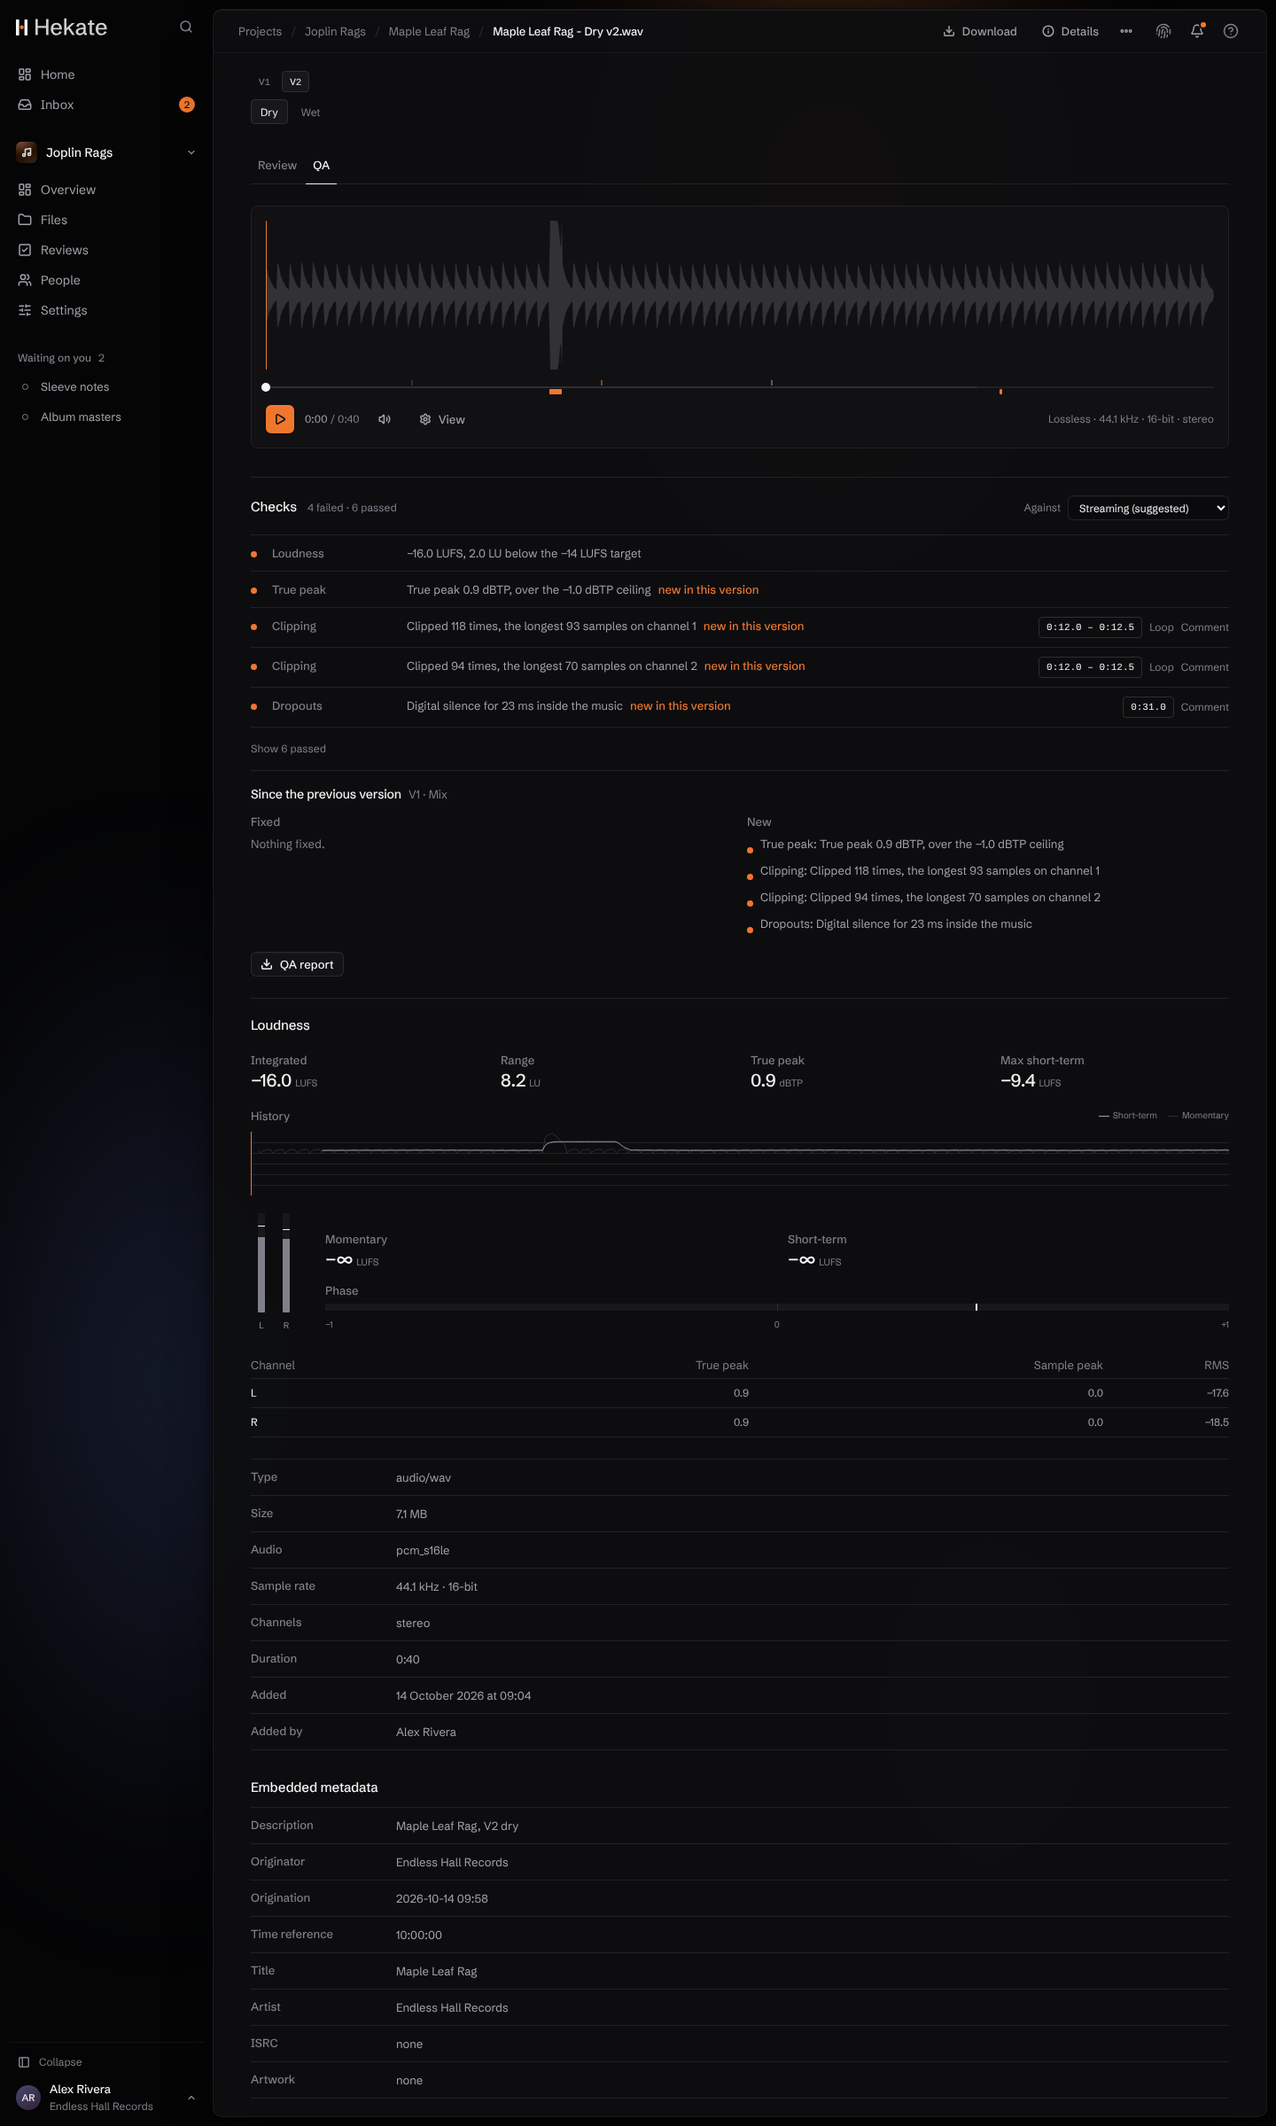
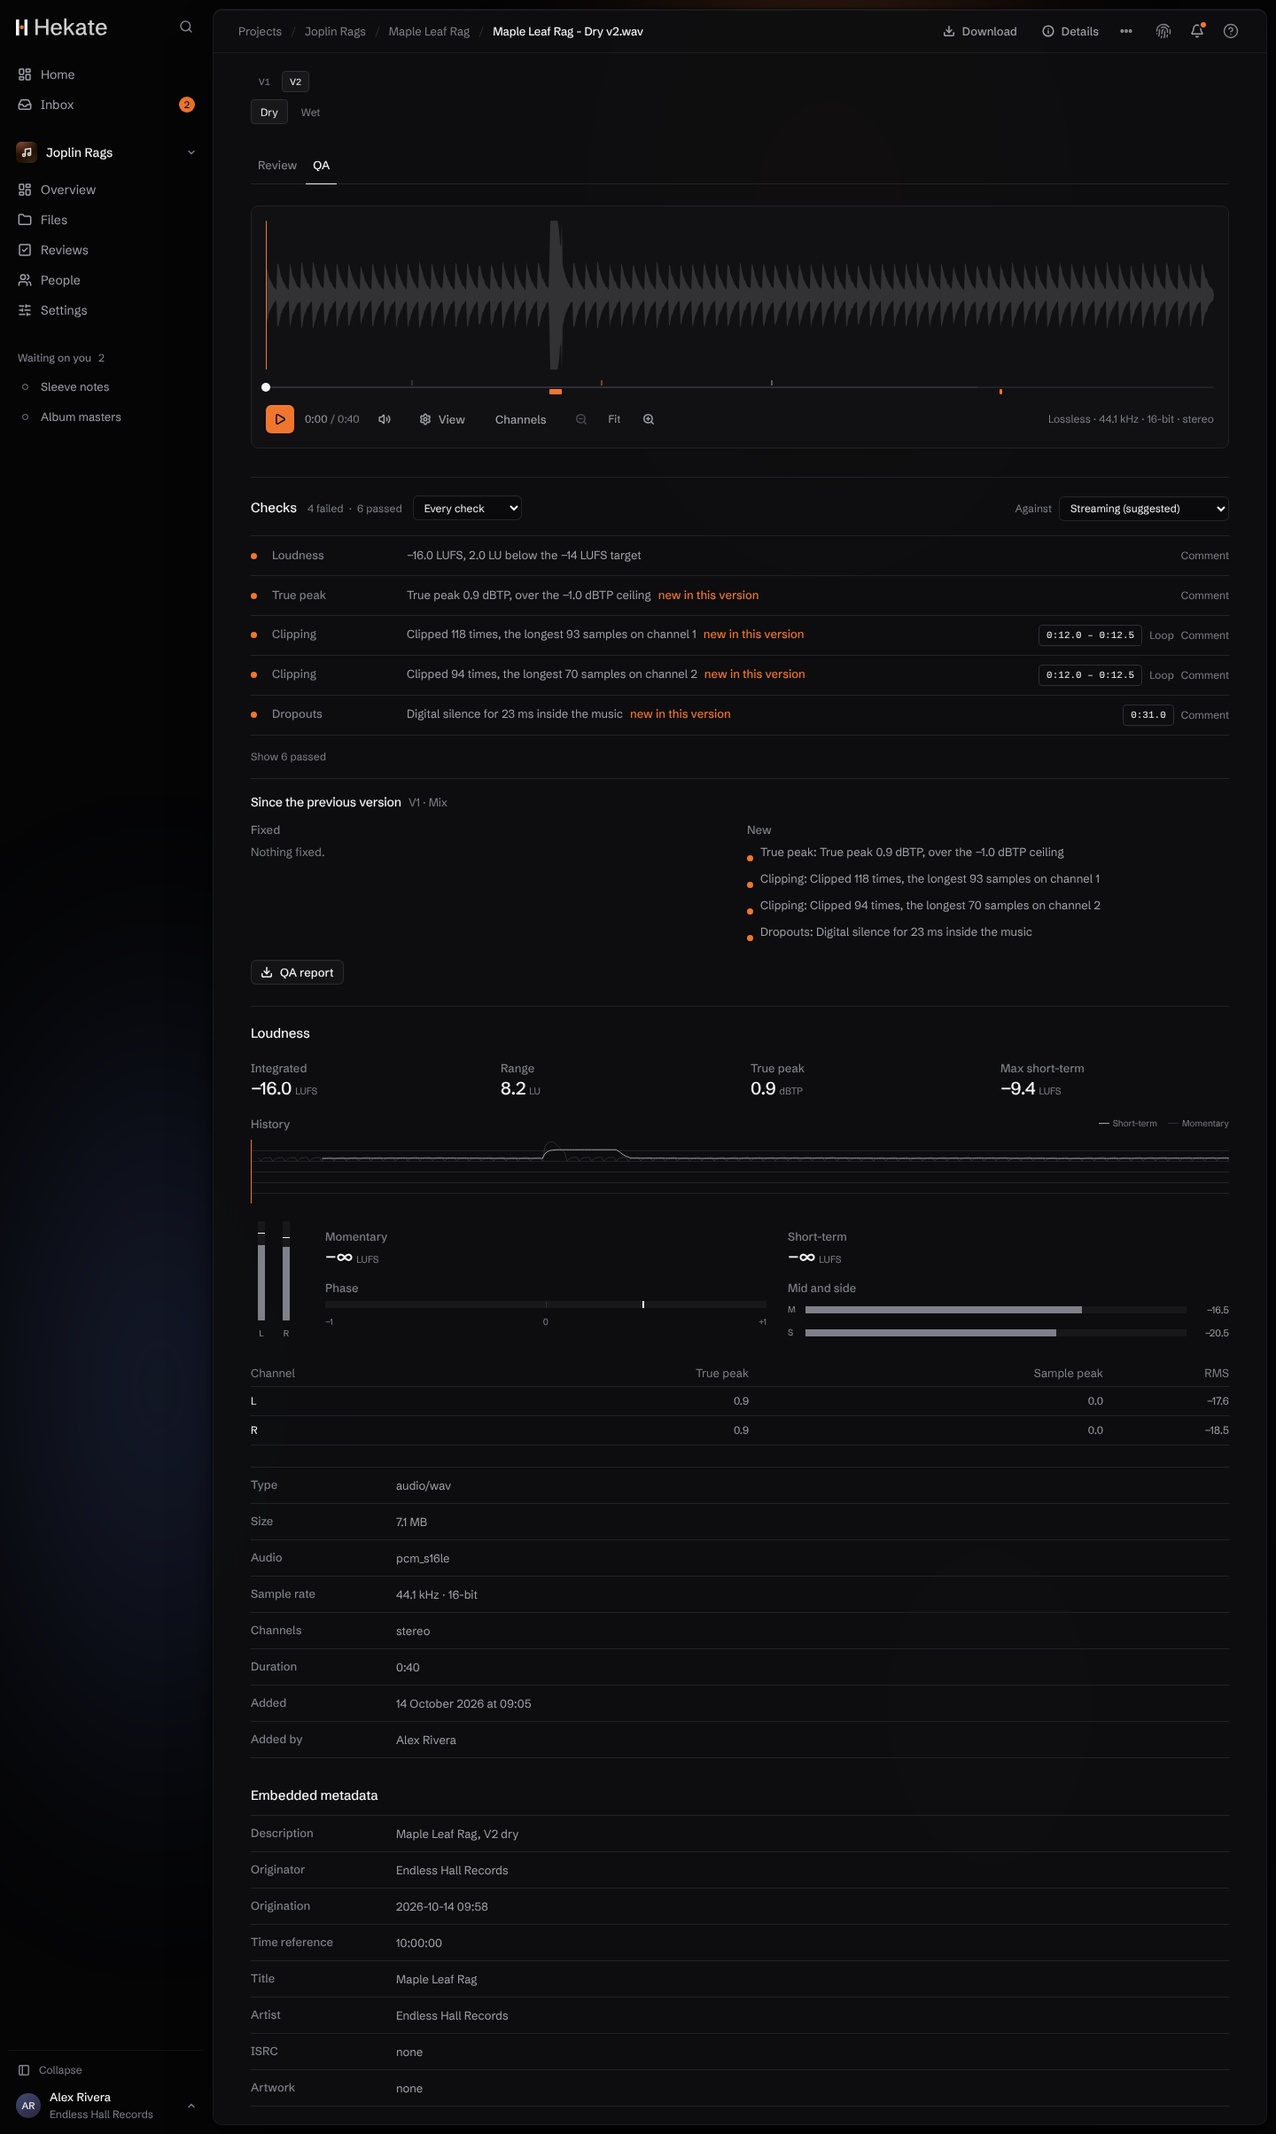
feat: meter the front pair's mid and side as it plays (#302)
Refs #34

Claude-Session: https://claude.ai/code/session_015TRj2XJrf2hGBbTKBkRfmp

diff --git a/packages/shared/src/loudness.ts b/packages/shared/src/loudness.ts
@@ -6,12 +6,14 @@ import { z } from "zod";
  * peaks, these are numbers about the audio from which no audio can be rebuilt.
  *
  * The series holds one frame every `samplesPerFrame` samples (100 ms): momentary and
- * short-term loudness, each channel's sample peak and RMS, and the phase correlation of the
- * front pair. Binary layout, little-endian: the magic `HKLD`, version (u8), channels (u8),
- * flags (u8, bit 0: phase present), a reserved byte, sample rate (u32), samples per frame
- * (u32), frame count (u32), then for every frame signed 16-bit values: momentary and
- * short-term in hundredths of a LUFS, each channel's peak and RMS in hundredths of a dBFS,
- * and the phase correlation in ten-thousandths, if present.
+ * short-term loudness, each channel's sample peak and RMS, and the phase correlation and the
+ * mid and side levels of the front pair. Binary layout, little-endian: the magic `HKLD`,
+ * version (u8), channels (u8), flags (u8, bit 0: phase present, bit 1: mid and side
+ * present), a reserved byte, sample rate (u32), samples per frame (u32), frame count (u32),
+ * then for every frame signed 16-bit values: momentary and short-term in hundredths of a
+ * LUFS, each channel's peak and RMS in hundredths of a dBFS, the phase correlation in
+ * ten-thousandths, if present, and the mid and side RMS in hundredths of a dBFS, if present.
+ * Files measured before mid and side were added have only the phase.
  */
 
 export interface LoudnessSeries {
@@ -28,6 +30,10 @@ export interface LoudnessSeries {
   rms: Float32Array;
   /** Per frame, -1 (out of phase) to 1 (mono); empty without a pair of channels. */
   phase: Float32Array;
+  hasMidSide: boolean;
+  /** Per frame, the RMS of the front pair's sum and difference, (L+R)/2 and (L−R)/2, in dBFS. */
+  mid: Float32Array;
+  side: Float32Array;
 }
 
 /** Anything at or below this is shown as silence. */
@@ -41,22 +47,22 @@ const MAGIC = [0x48, 0x4b, 0x4c, 0x44];
 const VERSION = 1;
 const HEADER = 20;
 
-const valuesPerFrame = (channels: number, hasPhase: boolean) =>
-  2 + channels * 2 + (hasPhase ? 1 : 0);
+const valuesPerFrame = (channels: number, hasPhase: boolean, hasMidSide: boolean) =>
+  2 + channels * 2 + (hasPhase ? 1 : 0) + (hasMidSide ? 2 : 0);
 
 /** A level in dB to hundredths, clamped to the range a 16-bit value holds. */
 const centi = (db: number) =>
   Number.isFinite(db) ? Math.round(Math.max(SILENCE, Math.min(300, db)) * 100) : SILENCE * 100;
 
 export function encodeLoudness(series: LoudnessSeries): Uint8Array {
-  const { channels, count, hasPhase } = series;
-  const stride = valuesPerFrame(channels, hasPhase);
+  const { channels, count, hasPhase, hasMidSide } = series;
+  const stride = valuesPerFrame(channels, hasPhase, hasMidSide);
   const out = new Uint8Array(HEADER + count * stride * 2);
   const view = new DataView(out.buffer);
   out.set(MAGIC, 0);
   view.setUint8(4, VERSION);
   view.setUint8(5, channels);
-  view.setUint8(6, hasPhase ? 1 : 0);
+  view.setUint8(6, (hasPhase ? 1 : 0) | (hasMidSide ? 2 : 0));
   view.setUint32(8, series.sampleRate, true);
   view.setUint32(12, series.samplesPerFrame, true);
   view.setUint32(16, count, true);
@@ -73,6 +79,10 @@ export function encodeLoudness(series: LoudnessSeries): Uint8Array {
       put(centi(series.rms[f * channels + c] as number));
     }
     if (hasPhase) put(Math.round(Math.max(-1, Math.min(1, series.phase[f] ?? 0)) * 10_000));
+    if (hasMidSide) {
+      put(centi(series.mid[f] ?? SILENCE));
+      put(centi(series.side[f] ?? SILENCE));
+    }
   }
   return out;
 }
@@ -84,9 +94,11 @@ export function decodeLoudness(bytes: Uint8Array): LoudnessSeries {
   const view = new DataView(bytes.buffer, bytes.byteOffset, bytes.byteLength);
   if (view.getUint8(4) !== VERSION) throw new Error("Unsupported loudness version");
   const channels = view.getUint8(5);
-  const hasPhase = (view.getUint8(6) & 1) === 1;
+  const flags = view.getUint8(6);
+  const hasPhase = (flags & 1) === 1;
+  const hasMidSide = (flags & 2) === 2;
   const count = view.getUint32(16, true);
-  const stride = valuesPerFrame(channels, hasPhase);
+  const stride = valuesPerFrame(channels, hasPhase, hasMidSide);
   if (channels === 0 || bytes.length !== HEADER + count * stride * 2) {
     throw new Error("Truncated loudness file");
   }
@@ -101,6 +113,9 @@ export function decodeLoudness(bytes: Uint8Array): LoudnessSeries {
     peak: new Float32Array(count * channels),
     rms: new Float32Array(count * channels),
     phase: new Float32Array(hasPhase ? count : 0),
+    hasMidSide,
+    mid: new Float32Array(hasMidSide ? count : 0),
+    side: new Float32Array(hasMidSide ? count : 0),
   };
   let at = HEADER;
   const take = () => {
@@ -116,6 +131,10 @@ export function decodeLoudness(bytes: Uint8Array): LoudnessSeries {
       series.rms[f * channels + c] = take() / 100;
     }
     if (hasPhase) series.phase[f] = take() / 10_000;
+    if (hasMidSide) {
+      series.mid[f] = take() / 100;
+      series.side[f] = take() / 100;
+    }
   }
   return series;
 }

diff --git a/apps/server/src/media/loudness.ts b/apps/server/src/media/loudness.ts
@@ -27,6 +27,10 @@ class Column {
   }
 }
 
+/** A mean square as dBFS; nothing, or rounding below zero, is silence. */
+const powerToDb = (power: number) =>
+  power > 0 ? Math.max(SILENCE, 10 * Math.log10(power)) : SILENCE;
+
 /** ffmpeg prints silence as `-inf`, or as its own floor of about -120.7 LUFS. */
 const level = (text: string) => {
   const value = Number.parseFloat(text);
@@ -110,6 +114,7 @@ export class LoudnessParser {
  * Phase correlation of the first two channels (left and right, or front left and right
  * of a surround layout) over each frame, from interleaved 32-bit float PCM in chunks of
  * any size: +1 is mono, 0 unrelated, -1 out of phase. Silence on either side reads as 0.
+ * The same sums give the RMS of the pair's mid, (L+R)/2, and side, (L−R)/2, in dBFS.
  */
 export class PhaseMeter {
   private carry = Buffer.alloc(0);
@@ -120,6 +125,8 @@ export class PhaseMeter {
   private rr = 0;
   private left = 0;
   private readonly values = new Column();
+  private readonly mid = new Column();
+  private readonly side = new Column();
   /** Sample frames (one sample per channel) seen. */
   total = 0;
   readonly channels: number;
@@ -157,16 +164,23 @@ export class PhaseMeter {
 
   private emit(): void {
     const energy = Math.sqrt(this.ll * this.rr);
-    this.values.set(this.values.length, energy > 0 ? this.lr / energy : 0);
+    const at = this.values.length;
+    this.values.set(at, energy > 0 ? this.lr / energy : 0);
+    // Mean of ((L ± R) / 2)², from the sums already kept.
+    const n = Math.max(1, this.frames);
+    this.mid.set(at, powerToDb((this.ll + 2 * this.lr + this.rr) / 4 / n));
+    this.side.set(at, powerToDb((this.ll - 2 * this.lr + this.rr) / 4 / n));
     this.frames = 0;
     this.lr = 0;
     this.ll = 0;
     this.rr = 0;
   }
 
-  finish(count: number): Float32Array {
+  finish(count: number): { phase: Float32Array; mid: Float32Array; side: Float32Array } {
     if (this.frames > 0) this.emit();
-    return this.channels >= 2 ? this.values.toArray(count) : new Float32Array(0);
+    const pair = this.channels >= 2;
+    const column = (c: Column) => (pair ? c.toArray(count) : new Float32Array(0));
+    return { phase: column(this.values), mid: column(this.mid), side: column(this.side) };
   }
 }
 
@@ -202,8 +216,9 @@ export function finishLoudness(
     samplesPerFrame: phase.samplesPerFrame,
     count,
     hasPhase: parsed.channels >= 2,
+    hasMidSide: parsed.channels >= 2,
     ...columns,
-    phase: phase.finish(count),
+    ...phase.finish(count),
   };
   const levels = channelLevels(series, phase.total);
   const truePeaks = parsed.truePeaks.map(linearToDb);

diff --git a/apps/web/src/components/loudness.tsx b/apps/web/src/components/loudness.tsx
@@ -247,6 +247,48 @@ function PhaseMeter({ value }: { value: number }) {
   );
 }
 
+/**
+ * The front pair's mid (what the two sides share) and side (where they differ), as RMS: a
+ * side close to the mid is wide or out of phase, a side far below it narrow.
+ */
+function MidSideMeter({ mid, side }: { mid: number; side: number }) {
+  return (
+    <div className="flex flex-col gap-1.5">
+      <span className="label">Mid and side</span>
+      <ul className="m-0 flex list-none flex-col gap-1.5 p-0">
+        {(
+          [
+            ["M", "Mid", mid],
+            ["S", "Side", side],
+          ] as const
+        ).map(([short, name, level]) => (
+          <li key={short} className="flex items-center gap-2">
+            <meter
+              className="sr-only"
+              min={METER_FLOOR}
+              max={0}
+              value={Math.max(METER_FLOOR, level)}
+              aria-label={`${name}: RMS ${formatLevel(level)} dBFS`}
+            />
+            <span className="label w-3 text-[10px]" aria-hidden="true">
+              {short}
+            </span>
+            <span className="relative h-2 flex-1 rounded-[1px] bg-raised" aria-hidden="true">
+              <span
+                className="absolute inset-y-0 left-0 bg-ink-3"
+                style={{ width: `${meterFraction(level) * 100}%` }}
+              />
+            </span>
+            <span className="tabular w-10 text-right text-[11px] text-ink-2" aria-hidden="true">
+              {formatLevel(level)}
+            </span>
+          </li>
+        ))}
+      </ul>
+    </div>
+  );
+}
+
 /** The whole file in four numbers. */
 function Readings({ summary }: { summary: LoudnessSummary }) {
   return (
@@ -350,7 +392,14 @@ export function Loudness({
               <Reading label="Momentary" value={formatLevel(live(series.momentary))} unit="LUFS" />
               <Reading label="Short-term" value={formatLevel(live(series.shortTerm))} unit="LUFS" />
             </div>
-            {series.hasPhase && <PhaseMeter value={frame === null ? 0 : live(series.phase)} />}
+            {series.hasPhase && (
+              <div className="grid gap-x-6 gap-y-4 sm:grid-cols-2">
+                <PhaseMeter value={frame === null ? 0 : live(series.phase)} />
+                {series.hasMidSide && (
+                  <MidSideMeter mid={live(series.mid)} side={live(series.side)} />
+                )}
+              </div>
+            )}
           </div>
         </div>
       )}

diff --git a/packages/shared/src/loudness.test.ts b/packages/shared/src/loudness.test.ts
@@ -10,7 +10,7 @@ import {
   SILENCE,
 } from "./loudness.ts";
 
-const series = (hasPhase: boolean): LoudnessSeries => ({
+const series = (hasPhase: boolean, hasMidSide = hasPhase): LoudnessSeries => ({
   channels: 2,
   sampleRate: 48_000,
   samplesPerFrame: 4_800,
@@ -21,6 +21,9 @@ const series = (hasPhase: boolean): LoudnessSeries => ({
   peak: Float32Array.from([-60, -61, -6.02, -12, -0.5, Number.NEGATIVE_INFINITY]),
   rms: Float32Array.from([-70, -71, -20, -26, -9, -500]),
   phase: hasPhase ? Float32Array.from([1, 0.5, -0.25]) : new Float32Array(0),
+  hasMidSide,
+  mid: hasMidSide ? Float32Array.from([SILENCE, -26.5, -12.25]) : new Float32Array(0),
+  side: hasMidSide ? Float32Array.from([SILENCE, -40, -500]) : new Float32Array(0),
 });
 
 describe("loudness series", () => {
@@ -35,7 +38,20 @@ describe("loudness series", () => {
       );
       expect(decoded.rms[5]).toBe(SILENCE);
       expect(Array.from(decoded.phase)).toEqual(hasPhase ? [1, 0.5, -0.25] : []);
+      expect(decoded.hasMidSide).toBe(hasPhase);
+      expect(Array.from(decoded.mid)).toEqual(
+        hasPhase ? [SILENCE, -26.5, -12.25].map(Math.fround) : [],
+      );
+      expect(Array.from(decoded.side)).toEqual(hasPhase ? [SILENCE, -40, SILENCE] : []);
     }
+  });
+
+  it("reads a file measured before mid and side were kept", () => {
+    const decoded = decodeLoudness(encodeLoudness(series(true, false)));
+    expect(decoded.hasPhase).toBe(true);
+    expect(decoded.hasMidSide).toBe(false);
+    expect(decoded.mid.length).toBe(0);
+    expect(Array.from(decoded.phase)).toEqual([1, 0.5, -0.25]);
   });
 
   it("rejects what is not a whole loudness file", () => {

diff --git a/apps/server/src/media/loudness.test.ts b/apps/server/src/media/loudness.test.ts
@@ -75,14 +75,22 @@ describe("phase meter", () => {
     ] as const) {
       meter.push(bytes.subarray(start, end));
     }
-    expect(Array.from(meter.finish(2))).toEqual([1, -1]);
+    const { phase, mid, side } = meter.finish(2);
+    expect(Array.from(phase)).toEqual([1, -1]);
     expect(meter.total).toBe(4);
+    // In phase, everything is mid and nothing side; out of phase, the reverse.
+    const level = 10 * Math.log10((0.5 ** 2 + 0.25 ** 2) / 2);
+    expect(mid[0]).toBeCloseTo(level, 4);
+    expect(side[0]).toBe(SILENCE);
+    expect(mid[1]).toBe(SILENCE);
+    expect(side[1]).toBeCloseTo(level, 4);
   });
 
   it("has nothing to say about mono", () => {
     const meter = new PhaseMeter(1, 2);
     meter.push(pcm([0.1, 0.2, 0.3]));
-    expect(meter.finish(2)).toHaveLength(0);
+    const { phase, mid, side } = meter.finish(2);
+    expect([phase.length, mid.length, side.length]).toEqual([0, 0, 0]);
   });
 });
 

diff --git a/docs/security.md b/docs/security.md
@@ -43,7 +43,7 @@ Members sign in with what their workspace already uses; guests never need an acc
 - The key endpoint returns the content key only on a valid token and session. Keys are never cached, are limited to 30 requests a minute per session, and every issue is logged (`stream.key`) before the key leaves. Starting playback (`stream.session`) and every segment served (`stream.segment`, with its rendition and index) are logged too, so the log shows which parts of a file reached whom. All playback responses are `no-store` and same-origin.
 - The player (hls.js under Hekate's own controls, for audio as well as video) decrypts through Media Source Extensions; Safari on iOS, which lacks them, plays the same encrypted stream natively. The network panel shows only encrypted fragments.
 - Waveforms are drawn from precomputed peaks, so the waveform never needs the audio itself. Peaks are each channel's lowest and highest sample over blocks of at least 256 samples, in 8 bits: enough to draw at any zoom, far too little to rebuild audio. They are stored encrypted like everything else and served to members of the file's workspace without a playback token or an access-log entry.
-- Loudness and levels are treated in the same way. They are momentary and short-term loudness, each channel's peak and RMS, and the phase correlation of the front pair, one set of numbers every 100 ms. They are measured from the same decode as the peaks, no audio can be rebuilt from them, and they are served like the peaks.
+- Loudness and levels are treated in the same way. They are momentary and short-term loudness, each channel's peak and RMS, and the phase correlation and mid and side levels of the front pair, one set of numbers every 100 ms. They are measured from the same decode as the peaks, no audio can be rebuilt from them, and they are served like the peaks.
 - Spectrograms are treated in the same way. Each channel (and the mid and side of the front pair) has one: the loudest level of every frequency band (about 23 Hz wide up to 24 kHz) over spans of at least 100 ms, in 8 bits, with no phase. A span pools several overlapping analysis windows, so what is stored is not a short-time Fourier transform, and phase-retrieval methods that rebuild audio from one have nothing consistent to work from. That is enough to draw at any colour map, scale and range, but not to rebuild audio. The worker builds them on a separate thread from its own decode of the file in the job's workspace, and their size is bounded however long the file turns out to be.
 
 This is not DRM: a determined person can capture the key from a live session. That capture is tied to their session in the audit log, and the forensic watermark below still identifies them. A pluggable commercial DRM (Widevine, FairPlay, PlayReady) can be added later on the same encrypted segments if a deployment needs it.

diff --git a/docs/decisions.md b/docs/decisions.md
@@ -402,3 +402,7 @@ The player hears a recording's channels apart (#74), as the prototype's audio la
 ## 099. A recording plays slower or faster, its pitch kept
 
 The player plays a recording at half speed to one and a half (0.5×, 0.75×, 1×, 1.25×, 1.5×), as the prototype's rate menu offers (#15), for following a fast passage or hearing a long take through quickly. The browser stretches time and keeps the pitch, so a slowed passage is still in tune. The speed holds while the player changes rendition, and is not remembered: the player opens at 1×. On the compare page the version that leads sets the speed and the one following keeps to it, as it keeps to its position. The menu sits after the mute button and opens upward, as the player's frame clips anything that opens below it.
+
+## 100. The front pair's mid and side are metered as it plays
+
+Beside the phase meter, the loudness panel meters the front pair's mid, (L+R)/2, and side, (L−R)/2, as RMS at the playhead (#34), as the prototype's meters do (M, S and the correlation): a side close to the mid is wide or out of phase, a side far below it narrow. They are measured with the loudness, from the same sums that give the correlation, so no audio is analysed in the browser and nothing more is decoded, and they are stored as two more values a frame in the loudness series, marked by a flag, so a series measured before reads as it did. Files analysed before have only the correlation until they are analysed again; mono files have neither.
